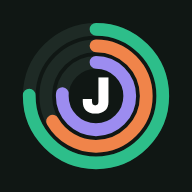
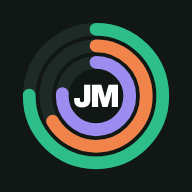
Ny logga med JM i mitten i stället för J, ?v=7 och cache v7
Claude-Session: https://claude.ai/code/session_011Gd3mLjm6nm1PLFNXeL3Mf

Changed region(s): [[0.375, 0.375, 0.625, 0.5938]]

diff --git a/sw.js b/sw.js
@@ -1,6 +1,6 @@
 // Gör appen installerbar och användbar offline. Sidan hämtas alltid färskt när det finns nät.
-const CACHE = 'juztmove-v6';
-const SHELL = ['./', './index.html', './config.js', './manifest.webmanifest', './icons/icon-192.png?v=6', './icons/icon-512.png?v=6', './apple-touch-icon.png?v=6', './apple-touch-icon-precomposed.png', './icons/favicon-32.png?v=6'];
+const CACHE = 'juztmove-v7';
+const SHELL = ['./', './index.html', './config.js', './manifest.webmanifest', './icons/icon-192.png?v=7', './icons/icon-512.png?v=7', './apple-touch-icon.png?v=7', './apple-touch-icon-precomposed.png', './icons/favicon-32.png?v=7'];
 self.addEventListener('install', e => { e.waitUntil(caches.open(CACHE).then(c => c.addAll(SHELL)).then(() => self.skipWaiting())); });
 self.addEventListener('activate', e => { e.waitUntil(caches.keys().then(ks => Promise.all(ks.filter(k => k !== CACHE).map(k => caches.delete(k)))).then(() => self.clients.claim())); });
 self.addEventListener('fetch', e => {

diff --git a/index.html b/index.html
@@ -3,9 +3,9 @@
 <head>
 <meta charset="utf-8">
 <link rel="manifest" href="manifest.webmanifest">
-<link rel="icon" type="image/png" href="icons/favicon-32.png?v=6">
-<link rel="apple-touch-icon" href="apple-touch-icon.png?v=6">
-<link rel="apple-touch-icon" sizes="180x180" href="apple-touch-icon.png?v=6">
+<link rel="icon" type="image/png" href="icons/favicon-32.png?v=7">
+<link rel="apple-touch-icon" href="apple-touch-icon.png?v=7">
+<link rel="apple-touch-icon" sizes="180x180" href="apple-touch-icon.png?v=7">
 <meta name="apple-mobile-web-app-title" content="JuztMove">
 <meta name="apple-mobile-web-app-status-bar-style" content="default">
 <meta name="viewport" content="width=device-width, initial-scale=1, viewport-fit=cover">

diff --git a/src/build.py b/src/build.py
@@ -5,9 +5,9 @@ from pathlib import Path
 root = Path(__file__).resolve().parent.parent
 src = (root / 'src' / 'index.src.html').read_text(encoding='utf-8')
 head = '''<link rel="manifest" href="manifest.webmanifest">
-<link rel="icon" type="image/png" href="icons/favicon-32.png?v=6">
-<link rel="apple-touch-icon" href="apple-touch-icon.png?v=6">
-<link rel="apple-touch-icon" sizes="180x180" href="apple-touch-icon.png?v=6">
+<link rel="icon" type="image/png" href="icons/favicon-32.png?v=7">
+<link rel="apple-touch-icon" href="apple-touch-icon.png?v=7">
+<link rel="apple-touch-icon" sizes="180x180" href="apple-touch-icon.png?v=7">
 <meta name="apple-mobile-web-app-title" content="JuztMove">
 <meta name="apple-mobile-web-app-status-bar-style" content="default">'''
 out = (src.replace('__PUBLIC_HEAD__', head)

diff --git a/CLAUDE.md b/CLAUDE.md
@@ -9,7 +9,7 @@ Publiceras med GitHub Pages från `main` (roten). Inloggning och data: Supabase 
 - `index.html` – genererad, ändra aldrig för hand.
 - `config.js` – Supabase-URL och publishable key (publik nyckel, får ligga här). Ändra inte.
 - `sw.js` – service worker. Höj `CACHE`-versionen när ikoner eller manifest ändras.
-- `icons/`, `manifest.webmanifest` – appikon (loggan = tre aktivitetsringar grön/orange/lila med ett J).
+- `icons/`, `manifest.webmanifest` – appikon (loggan = tre aktivitetsringar grön/orange/lila med JM i mitten).
 
 ## Regler som inte får brytas
 1. **Användarnas sparade data får aldrig gå sönder.** Lägg bara till nya fält, byt aldrig namn på eller ta bort befintliga (settings, days-ÅÅÅÅ-MM, log-ÅÅÅÅ-MM, library). Data från molnet kan vara fryst – klona (JSON) innan den ändras.
